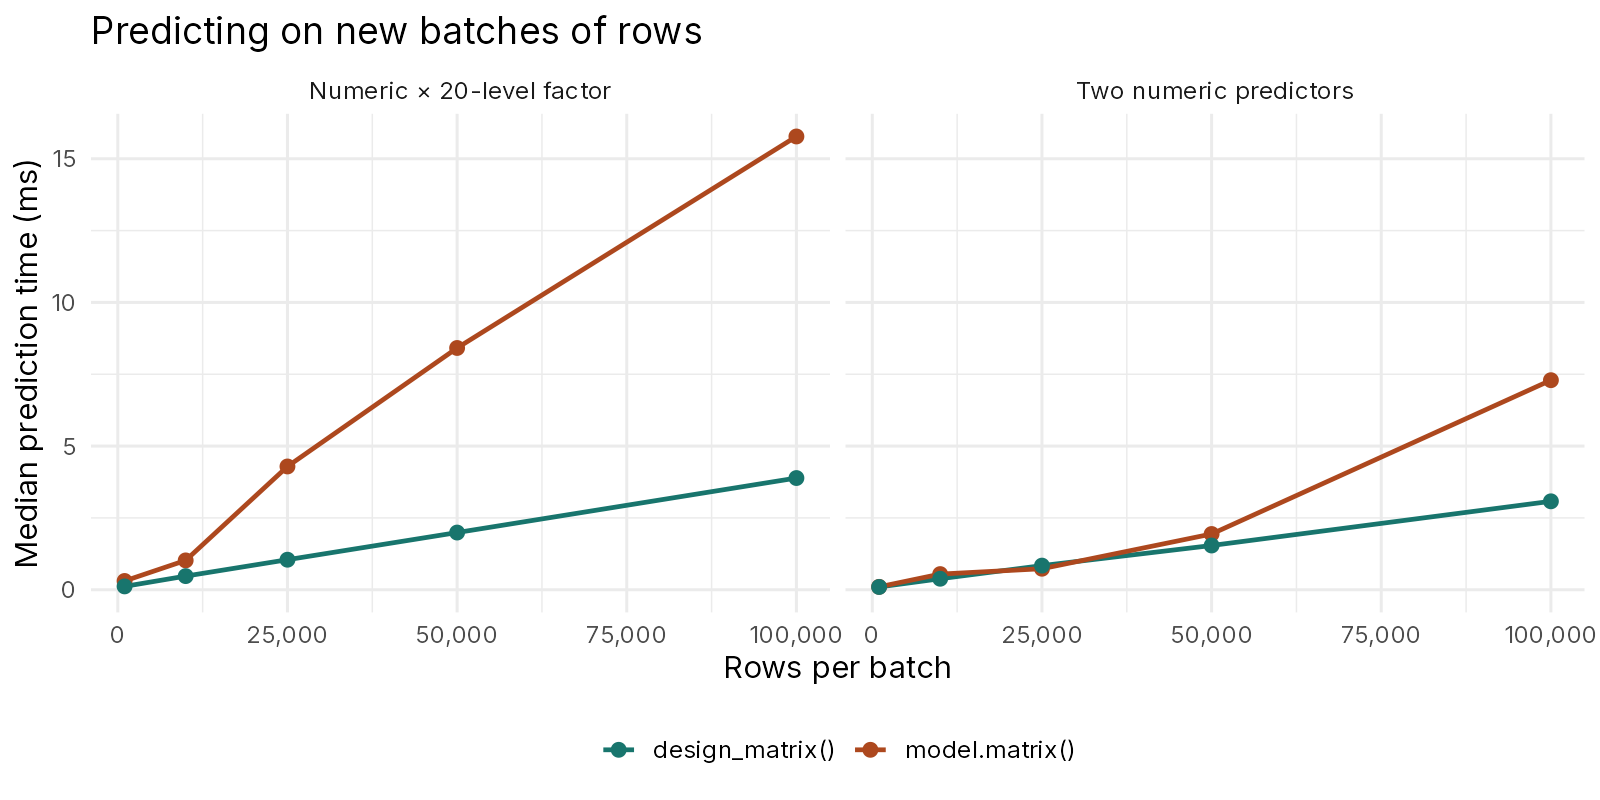
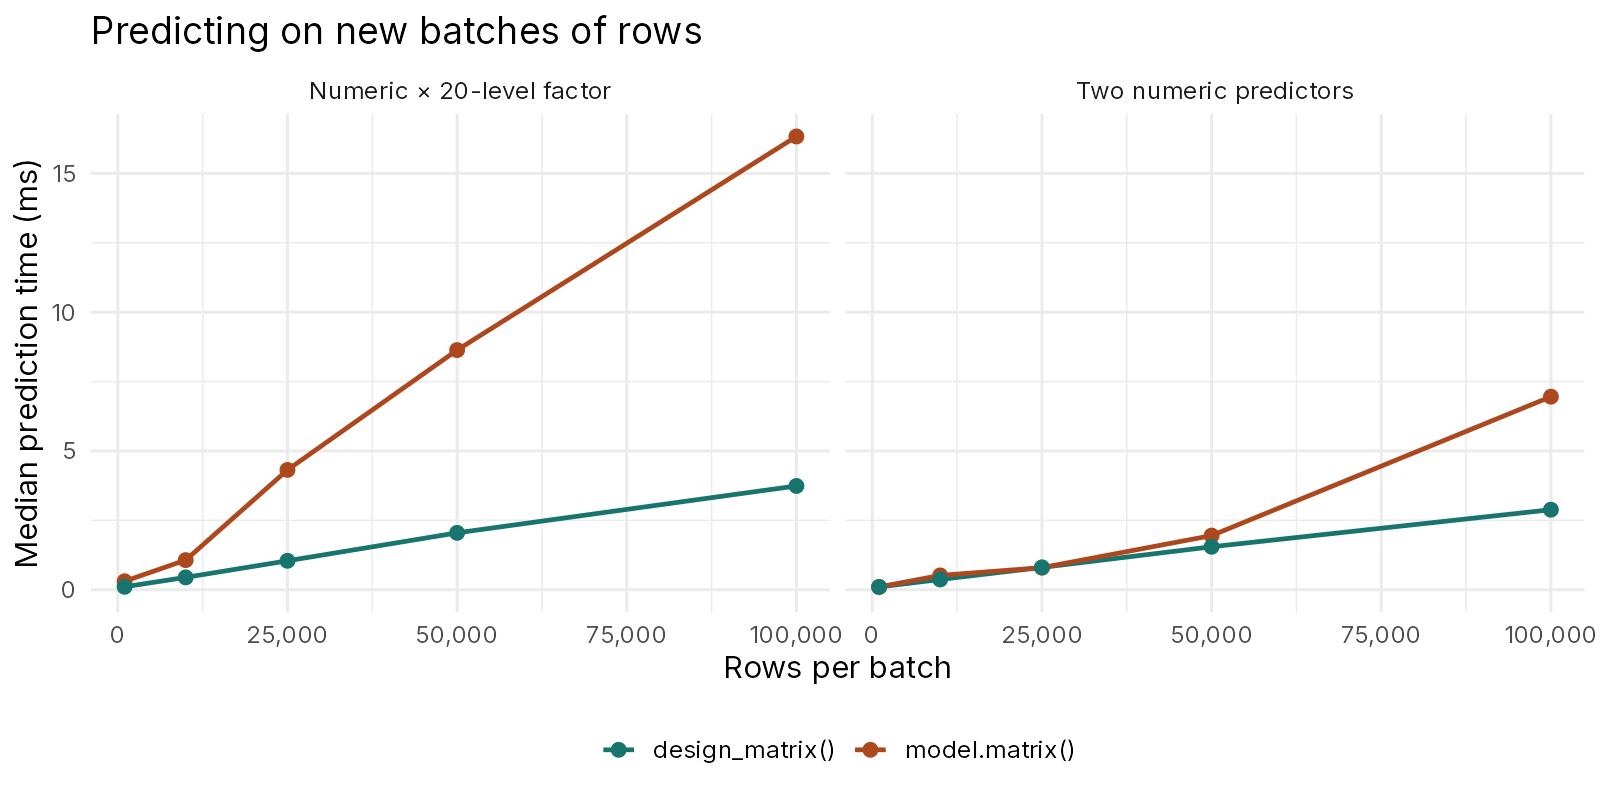
Re-render README
Claude-Session: https://claude.ai/code/session_01VNxDA5ivexVs5mXjkX9kzG

diff --git a/README.md b/README.md
@@ -162,9 +162,9 @@ bench::mark(
 #> # A tibble: 3 × 4
 #>   expression                    min   median mem_alloc
 #>   <bch:expr>               <bch:tm> <bch:tm> <bch:byt>
-#> 1 stats::model.matrix        57.3ms   64.8ms   211.1MB
-#> 2 design_matrix              10.6ms   16.5ms    29.6MB
-#> 3 as.matrix(design_matrix)   24.6ms   25.1ms   211.1MB
+#> 1 stats::model.matrix        55.6ms   62.9ms   211.1MB
+#> 2 design_matrix              10.2ms   15.9ms    29.6MB
+#> 3 as.matrix(design_matrix)   23.9ms   24.5ms   211.1MB
 ```
 
 ### Using multiple threads with `as.matrix()`
@@ -198,9 +198,9 @@ bench::mark(
 #> # A tibble: 3 × 4
 #>   expression                                   min   median mem_alloc
 #>   <bch:expr>                              <bch:tm> <bch:tm> <bch:byt>
-#> 1 model.matrix(fo, big)                     55.5ms   56.8ms     211MB
-#> 2 fast_model_matrix(fo, big, threads = 1)   55.2ms   55.6ms     211MB
-#> 3 fast_model_matrix(fo, big, threads = 4)   23.6ms     24ms     211MB
+#> 1 model.matrix(fo, big)                     52.5ms   52.8ms     211MB
+#> 2 fast_model_matrix(fo, big, threads = 1)     52ms   53.2ms     211MB
+#> 3 fast_model_matrix(fo, big, threads = 4)   23.6ms   23.6ms     211MB
 design_threads(1)
 ```
 
@@ -272,8 +272,8 @@ bench::mark(
 #> # A tibble: 2 × 4
 #>   expression                 min   median mem_alloc
 #>   <bch:expr>            <bch:tm> <bch:tm> <bch:byt>
-#> 1 base_model_matrix(nd)  310.1µs  337.6µs     224KB
-#> 2 fast_model_matrix(nd)   29.1µs   30.3µs     225KB
+#> 1 base_model_matrix(nd)  309.2µs  335.2µs     224KB
+#> 2 fast_model_matrix(nd)   27.8µs   28.9µs     225KB
 ```
 
 ### Arithmetic
@@ -340,10 +340,10 @@ bench::mark(
 #> # A tibble: 4 × 4
 #>   expression                   min   median mem_alloc
 #>   <bch:expr>              <bch:tm> <bch:tm> <bch:byt>
-#> 1 model.matrix, then %*%   71.85ms  72.29ms  212.67MB
-#> 2 design_matrix, then %*%   20.1ms  20.29ms    31.1MB
-#> 3 prebuilt X               15.09ms  16.23ms    1.53MB
-#> 4 prebuilt design matrix    9.42ms   9.64ms    1.54MB
+#> 1 model.matrix, then %*%    68.9ms  70.11ms  212.67MB
+#> 2 design_matrix, then %*%     19ms  19.35ms    31.1MB
+#> 3 prebuilt X                14.9ms   15.2ms    1.53MB
+#> 4 prebuilt design matrix     9.3ms   9.57ms    1.54MB
 ```
 
 ### `crossprod()`
@@ -395,10 +395,10 @@ bench::mark(
 #> # A tibble: 4 × 4
 #>   expression                         min   median mem_alloc
 #>   <bch:expr>                    <bch:tm> <bch:tm> <bch:byt>
-#> 1 model.matrix, then crossprod   69.67ms   71.3ms  211.14MB
-#> 2 design_matrix, then crossprod  20.35ms   20.5ms    31.1MB
-#> 3 prebuilt X                     14.52ms  14.81ms     1000B
-#> 4 prebuilt design matrix          9.68ms   9.89ms    1.54MB
+#> 1 model.matrix, then crossprod   68.96ms  69.27ms  211.14MB
+#> 2 design_matrix, then crossprod  19.43ms  19.65ms    31.1MB
+#> 3 prebuilt X                     14.38ms  14.59ms     1000B
+#> 4 prebuilt design matrix          9.28ms   9.83ms    1.54MB
 ```
 
 ### `colSums()`, `colMeans()`, `rowSums()` and `rowMeans()`
@@ -455,10 +455,10 @@ bench::mark(
 #> # A tibble: 4 × 4
 #>   expression                       min   median mem_alloc
 #>   <bch:expr>                  <bch:tm> <bch:tm> <bch:byt>
-#> 1 model.matrix, then rowsum    184.6ms  187.6ms     395MB
-#> 2 design_matrix, then colSums     23ms   24.1ms      35MB
-#> 3 prebuilt X                    49.1ms   68.4ms   183.9MB
-#> 4 prebuilt design matrix        12.4ms   12.6ms     5.4MB
+#> 1 model.matrix, then rowsum    173.7ms  175.2ms     395MB
+#> 2 design_matrix, then colSums   21.7ms   22.6ms      35MB
+#> 3 prebuilt X                    48.3ms   67.4ms   183.9MB
+#> 4 prebuilt design matrix        11.4ms   11.6ms     5.4MB
 ```
 
 ### `quadratic_diagonal()`
@@ -514,10 +514,10 @@ bench::mark(
 #> # A tibble: 4 × 4
 #>   expression                                         min   median mem_alloc
 #>   <bch:expr>                                    <bch:tm> <bch:tm> <bch:byt>
-#> 1 base_diagonal(model.matrix(fo, big), V)        166.4ms    193ms   575.8MB
-#> 2 quadratic_diagonal(design_matrix(fo, big), V)   21.4ms   21.8ms    31.3MB
-#> 3 base_diagonal(X, V)                            113.1ms  143.2ms   364.7MB
-#> 4 quadratic_diagonal(DX, V)                       10.6ms   10.8ms     1.7MB
+#> 1 base_diagonal(model.matrix(fo, big), V)        167.3ms  187.5ms   575.8MB
+#> 2 quadratic_diagonal(design_matrix(fo, big), V)     21ms   21.5ms    31.3MB
+#> 3 base_diagonal(X, V)                            107.4ms  136.2ms   364.7MB
+#> 4 quadratic_diagonal(DX, V)                       10.7ms   11.1ms     1.7MB
 ```
 
 ### Sparse model matrix
@@ -584,10 +584,10 @@ bench::mark(
 #> # A tibble: 4 × 4
 #>   expression                                               min   median mem_alloc
 #>   <bch:expr>                                          <bch:tm> <bch:tm> <bch:byt>
-#> 1 base_sparse(sfo, big)                                  1.17s    1.33s    3.02GB
-#> 2 fast_sparse(sfo, big)                                28.42ms  28.59ms   40.75MB
-#> 3 Matrix::sparse.model.matrix(sfo, big)               397.63ms 479.72ms  661.52MB
-#> 4 MatrixModels::model.Matrix(sfo, big, sparse = TRUE) 359.28ms 376.72ms  661.53MB
+#> 1 base_sparse(sfo, big)                                  1.16s     1.3s    3.02GB
+#> 2 fast_sparse(sfo, big)                                 27.8ms   27.9ms   40.75MB
+#> 3 Matrix::sparse.model.matrix(sfo, big)               396.93ms  469.7ms  661.52MB
+#> 4 MatrixModels::model.Matrix(sfo, big, sparse = TRUE) 355.89ms  360.6ms  661.53MB
 ```
 
 ### Repeated rows
@@ -624,9 +624,9 @@ bench::mark(
 #> # A tibble: 3 × 4
 #>   expression                  min   median mem_alloc
 #>   <bch:expr>             <bch:tm> <bch:tm> <bch:byt>
-#> 1 every row               40.87ms  42.11ms    4.67MB
-#> 2 grouped, first call      3.43ms   3.47ms    5.78MB
-#> 3 grouped, groups cached   1.51ms   1.54ms    2.41MB
+#> 1 every row               37.13ms  37.44ms    4.67MB
+#> 2 grouped, first call      3.26ms   3.32ms    5.78MB
+#> 3 grouped, groups cached   1.39ms   1.44ms    2.41MB
 ```
 
 ## Recipes
@@ -683,8 +683,8 @@ bench::mark(
 #> # A tibble: 2 × 4
 #>   expression                 min   median mem_alloc
 #>   <bch:expr>            <bch:tm> <bch:tm> <bch:byt>
-#> 1 predict(fit, newdata)  61.92ms     92ms     388MB
-#> 2 fast_predict            9.15ms   9.29ms      23MB
+#> 1 predict(fit, newdata)   59.4ms  89.71ms   387.7MB
+#> 2 fast_predict             9.1ms   9.32ms    3.07MB
 ```
 
 ### Standard errors of predictions
@@ -747,8 +747,8 @@ bench::mark(
 #> # A tibble: 2 × 4
 #>   expression                                   min   median mem_alloc
 #>   <bch:expr>                              <bch:tm> <bch:tm> <bch:byt>
-#> 1 base_predict_se(fit_big, big)            154.3ms  223.1ms   940.4MB
-#> 2 fast_predict_se(fit_big, big, spec_big)   16.5ms   16.8ms    31.2MB
+#> 1 base_predict_se(fit_big, big)            150.2ms  234.2ms   940.4MB
+#> 2 fast_predict_se(fit_big, big, spec_big)   16.7ms   20.7ms    11.2MB
 ```
 
 ### Leverage
@@ -807,9 +807,9 @@ bench::mark(
 #> # A tibble: 3 × 4
 #>   expression                  min   median mem_alloc
 #>   <bch:expr>             <bch:tm> <bch:tm> <bch:byt>
-#> 1 hatvalues(fit_big)      946.7ms  956.6ms    15.3MB
-#> 2 base_leverage(X, XtXi)   93.5ms   94.9ms   364.7MB
-#> 3 fast_leverage(D, XtXi)   10.7ms   11.3ms     1.7MB
+#> 1 hatvalues(fit_big)        2.31s    2.58s    15.3MB
+#> 2 base_leverage(X, XtXi)     93ms  95.36ms   364.7MB
+#> 3 fast_leverage(D, XtXi)   10.5ms  10.61ms     1.7MB
 ```
 
 ### Cluster-robust standard errors
@@ -876,8 +876,8 @@ bench::mark(
 #> # A tibble: 2 × 4
 #>   expression                                 min   median mem_alloc
 #>   <bch:expr>                            <bch:tm> <bch:tm> <bch:byt>
-#> 1 base_cluster_vcov(X, e, big$cl, XtXi)   66.6ms   67.1ms     186MB
-#> 2 fast_cluster_vcov(D, e, big$cl, XtXi)   12.5ms   12.5ms      11MB
+#> 1 base_cluster_vcov(X, e, big$cl, XtXi)   63.6ms   65.4ms     186MB
+#> 2 fast_cluster_vcov(D, e, big$cl, XtXi)   12.8ms     14ms      11MB
 ```
 
 ## Setup
